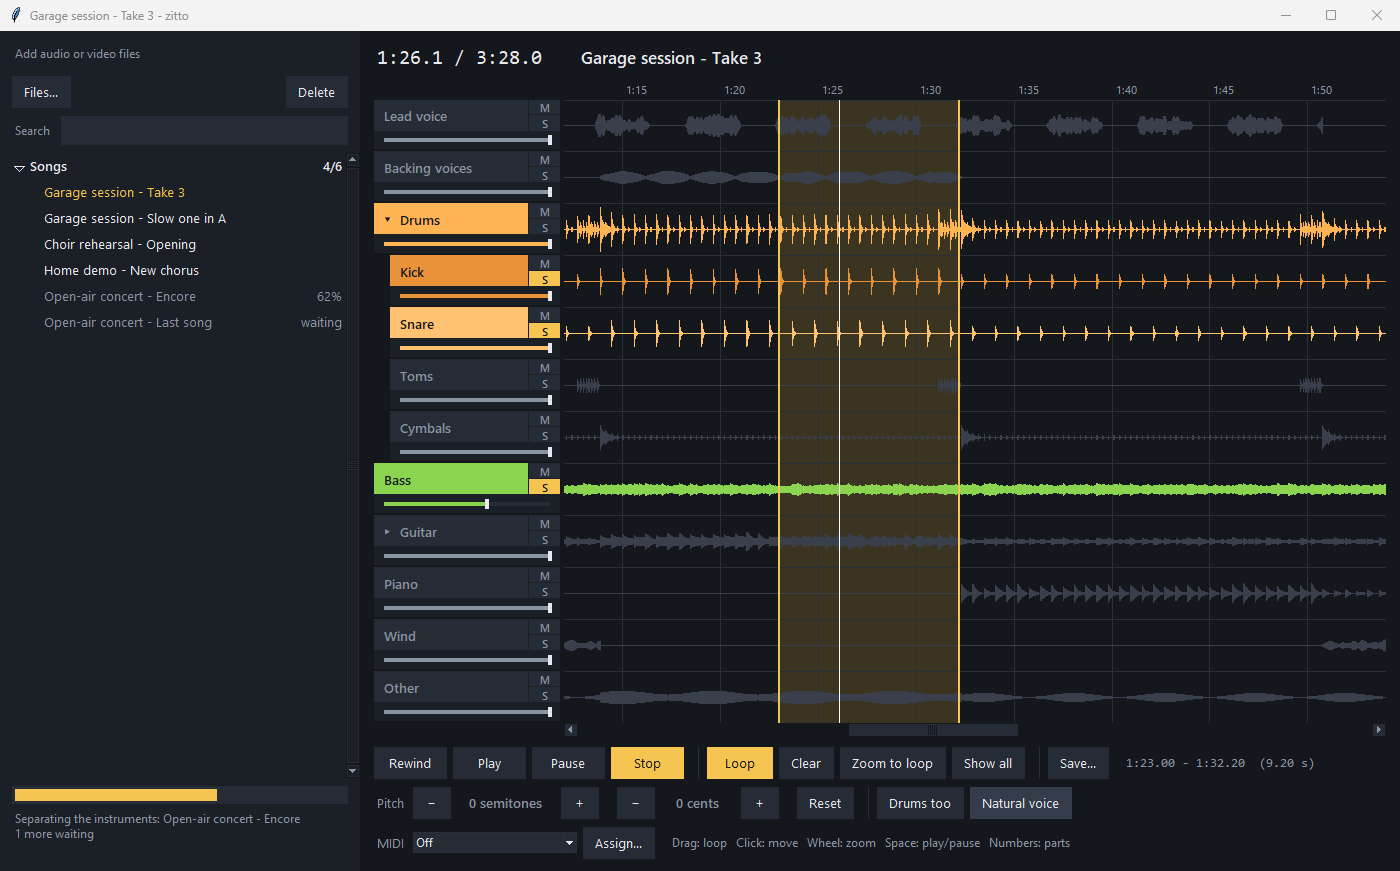
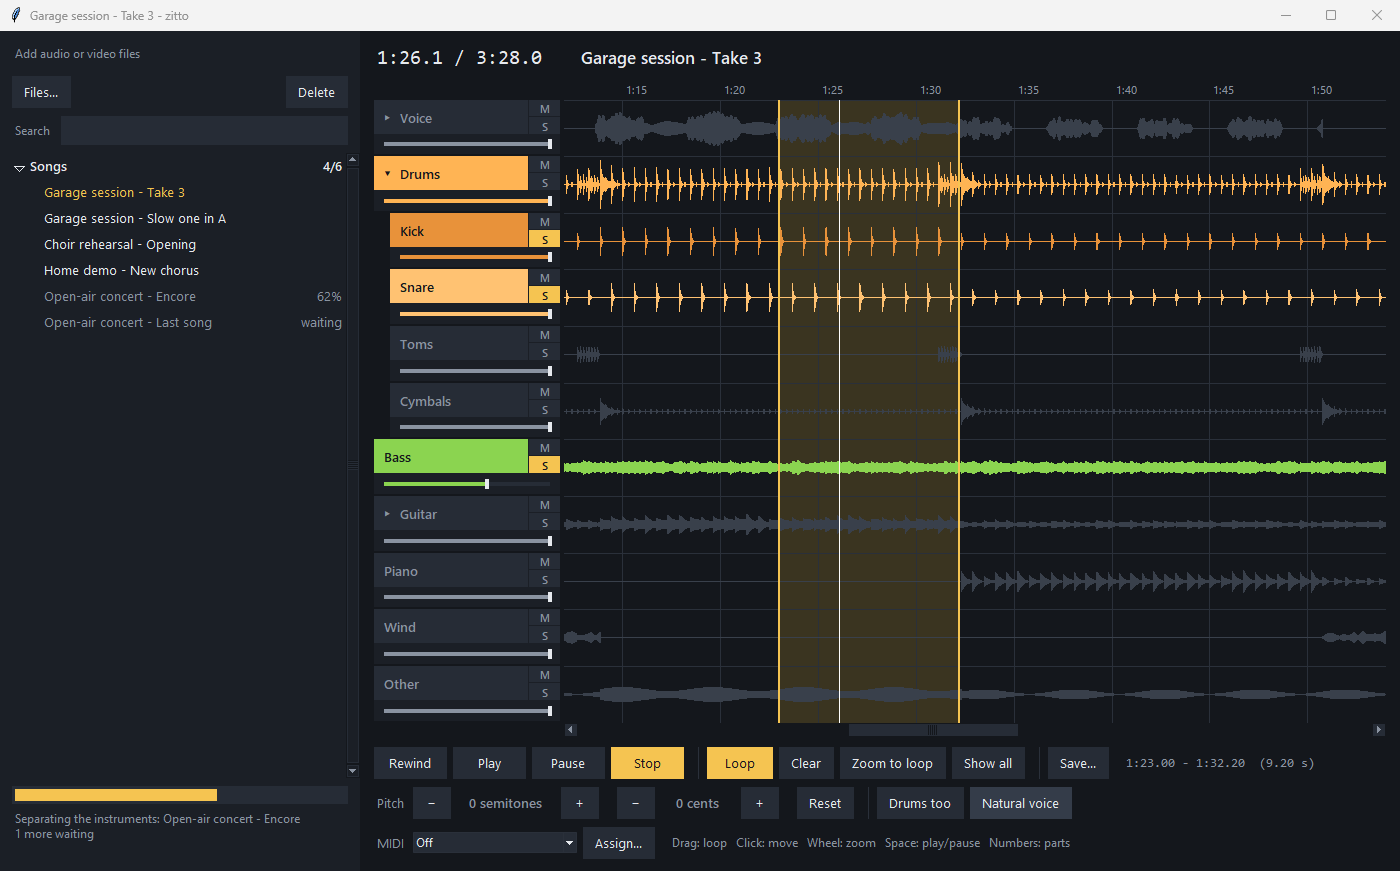
Version 0.7.0, and the voice in the pictures
The test of the app for the Mac updates from 0.6.0.

Changed region(s): [[0.2457, 0.124, 1.0, 0.806], [0.7986, 0.31, 0.8907, 0.341], [0.9521, 0.31, 0.9829, 0.341]]

diff --git a/docs/index.html b/docs/index.html
@@ -71,7 +71,7 @@ pre { background: var(--panel); border: 1px solid var(--edge); margin: 0; paddin
       <p class="lede">Separates a song into its parts, plays it with each part switched on and off live, and saves the mix you hear. <span class="word">In Italian, <em>zitto</em> means hush.</span></p>
     </div>
     <figure>
-      <img src="images/player.png" width="1400" height="871" alt="The window of zitto: six songs on the left, one of them being separated; on the right the waveforms of lead voice, backing voices, drums, bass, guitar, piano, wind and other, with the lead voice muted, a loop selected and the pitch two semitones up.">
+      <img src="images/player.png" width="1400" height="871" alt="The window of zitto: six songs on the left, one of them being separated; on the right the waveforms of the voice opened into lead and backing voices, then drums, bass, guitar, piano, wind and other, with the lead voice muted, a loop selected and the pitch two semitones up.">
       <figcaption>The lead voice is muted, the song is two semitones up, a loop runs from 1:14 to 1:51, and another song is being separated in the background. Songs and sound in these pictures are made up.</figcaption>
     </figure>
   </header>

diff --git a/zitto/__init__.py b/zitto/__init__.py
@@ -1,3 +1,3 @@
 """Remove a voice or an instrument from an audio track."""
 
-__version__ = "0.6.0"
+__version__ = "0.7.0"
